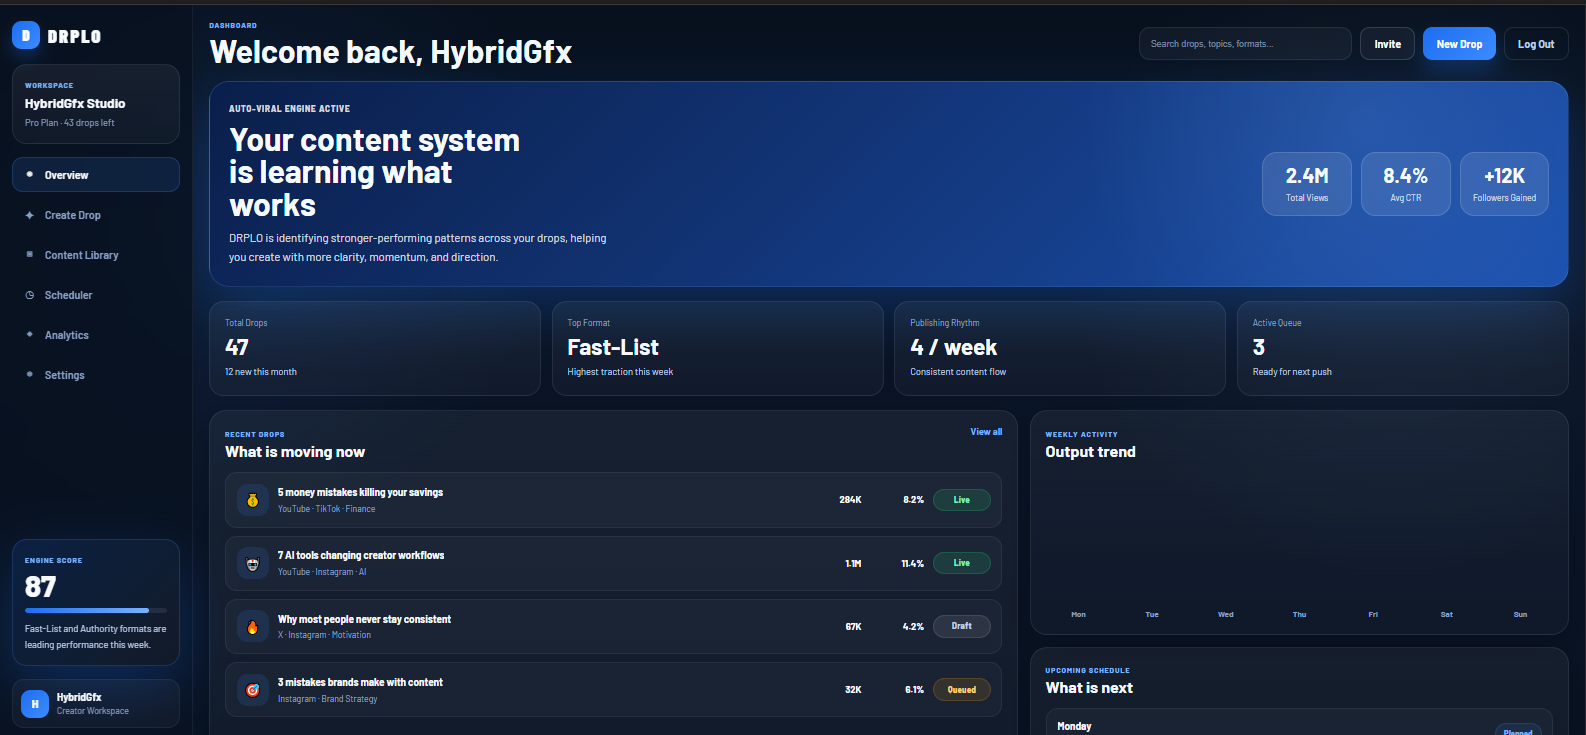
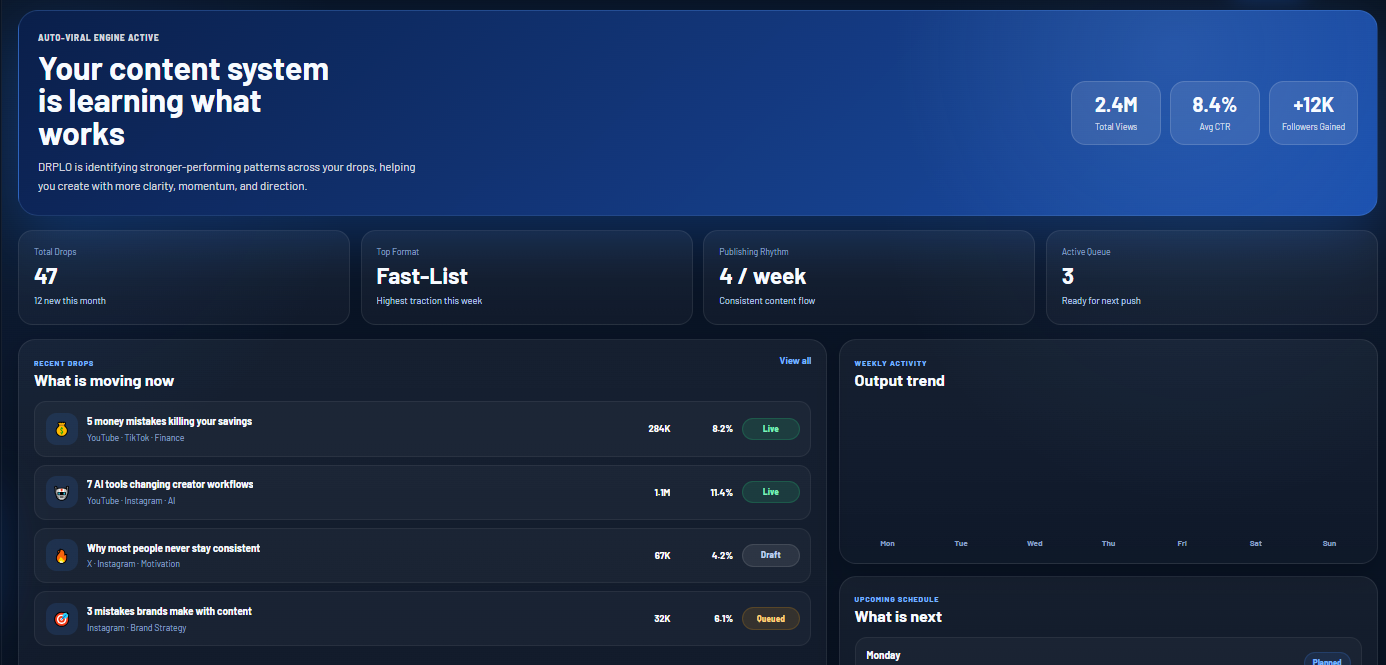
`Update README.md and dashboard.png`

diff --git a/README.md b/README.md
@@ -69,7 +69,7 @@ A pricing system designed to make the product feel commercially real and scalabl
 
 A full app-style dashboard showing metrics, recent drops, performance signals, and quick actions.
 
-![Dashboard](assets\dashboard.png)
+![Dashboard](assets/dashboard.png)
 
 ### Create Drop
 
